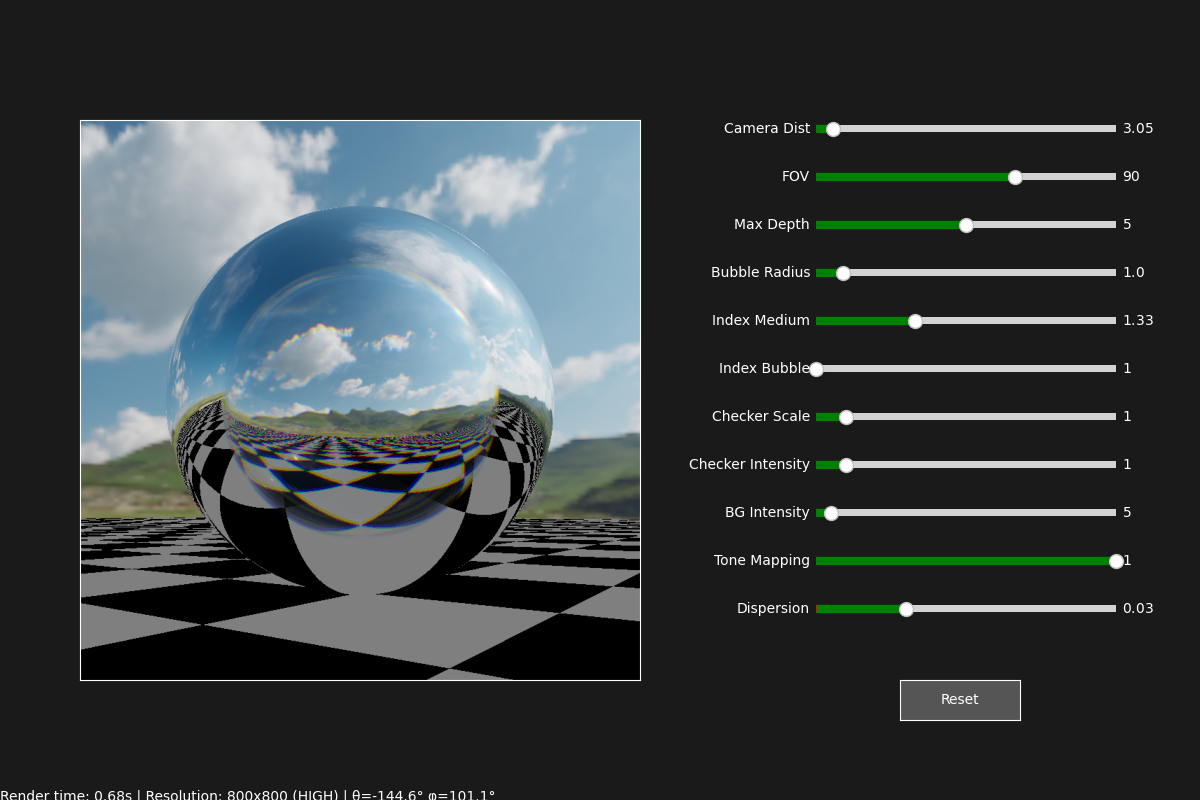
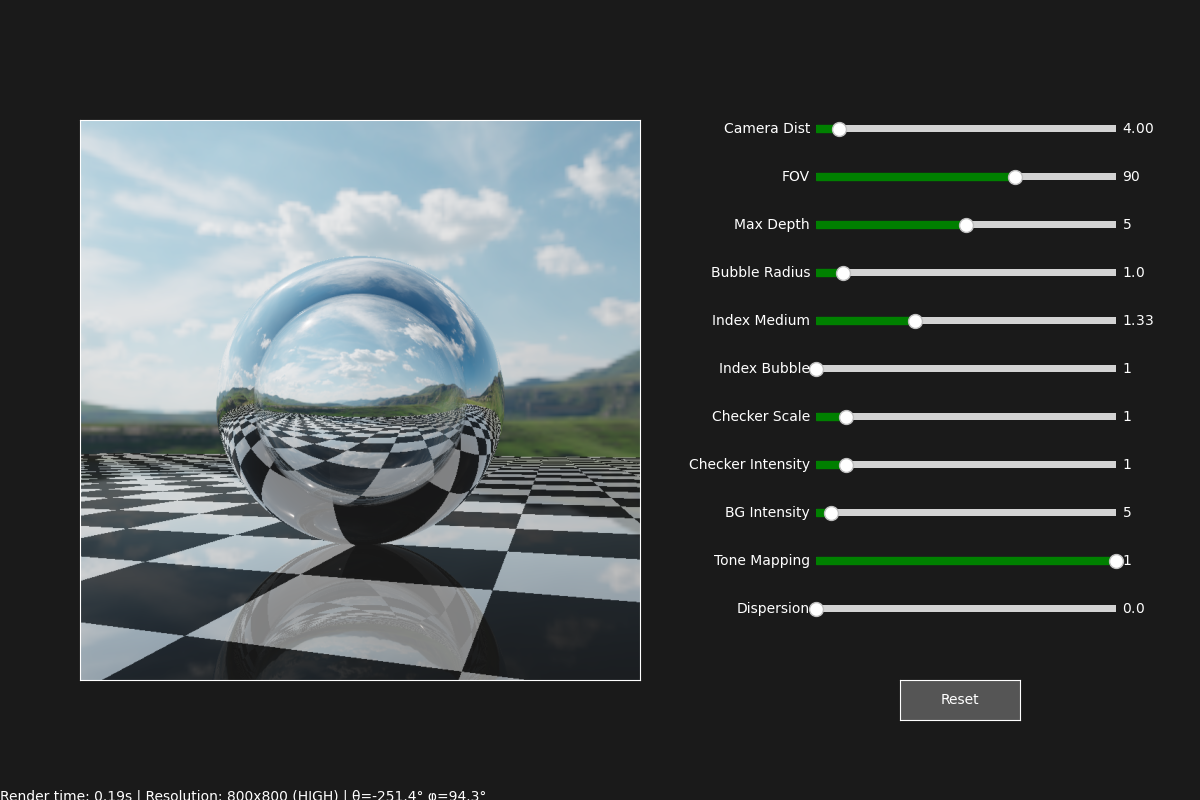
Add fresnel reflection to floor

diff --git a/3d-raytracer.py b/3d-raytracer.py
@@ -1,5 +1,6 @@
+import math
 import numpy as np
-from numba import njit, prange
+from numba import njit, prange, njit, float64
 import matplotlib.pyplot as plt
 from matplotlib.widgets import Slider, Button
 import time
@@ -102,7 +103,7 @@ def sample_equirectangular(direction, pano_array, width, height):
 
 
 @njit(cache=True, fastmath=True, inline='always')
-def checker(x, y, scale):
+def checker(x, y, scale, c0=0, c1=1):
     """2D square checkerboard pattern"""
     if scale<=0:
         return 1.0
@@ -110,13 +111,53 @@ def checker(x, y, scale):
     checkery = int(y / scale) % 2
     if x < 0: checkerx = 1 - checkerx
     if y < 0: checkery = 1 - checkery
-    return 0.0 if checkerx == checkery else 1.0
+    return c0 if checkerx == checkery else c1
 
 
 @njit(cache=True, fastmath=True, inline='always')
 def reflection(vector, normal):
     """Reflection about normal"""
     return vector - 2.0 * np.dot(vector, normal) * normal
+
+
+@njit(cache=True, fastmath=True, inline='always')
+def lambertian_reflection(vector, normal, roughness=0.1):
+    """
+    Scatters a vector based on a roughness parameter.
+    roughness = 0.0 -> Fully reflective (Specular)
+    roughness = 1.0 -> Fully scattered (Lambertian)
+    """
+    # 1. Calculate the perfect reflection vector
+    # (Note: Assumes incoming 'vector' points toward the surface)
+    reflect_dir = vector - 2.0 * np.dot(vector, normal) * normal
+
+    # 2. Generate a random point on a unit sphere (Lambertian target)
+    theta = 2.0 * np.pi * np.random.random()
+    phi = np.arccos(2.0 * np.random.random() - 1.0)
+    sin_phi = np.sin(phi)
+
+    random_on_sphere = np.array([
+        sin_phi * np.cos(theta),
+        sin_phi * np.sin(theta),
+        np.cos(phi)
+    ])
+
+    # 3. Choose the target based on roughness
+    # If roughness is 0, we use pure reflection.
+    # If roughness is 1, we offset the normal (pure Lambertian).
+    if roughness > 0.0:
+        # Interpolate the base direction between pure reflection and the normal
+        base_dir = (1.0 - roughness) * reflect_dir + roughness * normal
+        scatter_direction = base_dir + roughness * random_on_sphere
+    else:
+        scatter_direction = reflect_dir
+
+    # 4. Catch degenerate cases where the vector sums to zero
+    if np.dot(scatter_direction, scatter_direction) < 1e-16:
+        return normal
+
+    # 5. Normalize and return
+    return scatter_direction / np.linalg.norm(scatter_direction)
 
 
 @njit(cache=True, fastmath=True, inline='always')
@@ -137,22 +178,32 @@ def refraction(vector, normal, n1, n2):
 
 @njit(cache=True, fastmath=True, inline='always')
 def schlick_fresnel(cos_theta_i, n1, n2):
-    """Schlick approximation to Fresnel reflection and transmission"""
-    if cos_theta_i < 0.0:
-        cos_theta_i = 0.0
-    elif cos_theta_i > 1.0:
-        cos_theta_i = 1.0
+    """
+    Schlick approximation to Fresnel reflection and transmission.
+    """
+    # Clamp cosine to avoid floating-point errors
+    cos_i = max(0.0, min(1.0, cos_theta_i))
 
-    sin_theta_i = np.sqrt(1.0 - cos_theta_i * cos_theta_i)
-    sin_theta_t = (n1 / n2) * sin_theta_i
-
-    if sin_theta_t >= 1.0:
-        return 1.0
-
-    cos_theta_t = np.sqrt(1.0 - sin_theta_t * sin_theta_t)
+    # Compute base reflectance at normal incidence (R0)
     r0 = ((n1 - n2) / (n1 + n2)) ** 2
 
-    cos_theta = cos_theta_t if n1 > n2 else cos_theta_i
+    # Internal Reflection
+    if n1 > n2:
+        sin_theta_i = np.sqrt(1.0 - cos_i * cos_i)
+        sin_theta_t = (n1 / n2) * sin_theta_i
+
+        # Total Internal Reflection (TIR)
+        if sin_theta_t >= 1.0:
+            return 1.0
+
+        # Schlick cosine approximation
+        cos_t = np.sqrt(1.0 - sin_theta_t * sin_theta_t)
+        cos_theta = max(0.0, min(1.0, cos_t))
+    else:
+        # Rare -> Dense medium transition (Standard External Reflection)
+        cos_theta = cos_i
+
+    # Schlick power formula
     return r0 + (1.0 - r0) * ((1.0 - cos_theta) ** 5)
 
 
@@ -245,7 +296,7 @@ def trace_rays(origin, direction, intensity, max_depth, n1, n2, color,
         if depth > max_depth:
             continue
 
-        # sphere intersection
+        # Sphere intersection
         (sphere_hit_point, has_sphere, is_inside, is_directed_outward,
          sphere_normal, ni, nt) = ray_sphere_intersection(
             ray_origin, ray_direction,
@@ -253,7 +304,7 @@ def trace_rays(origin, direction, intensity, max_depth, n1, n2, color,
             n1, n2
         )
 
-        # plane intersection
+        # Plane intersection
         plane_hit_point, has_plane = ray_plane_intersection(
             ray_origin, ray_direction,
             background_center, background_normal
@@ -261,7 +312,6 @@ def trace_rays(origin, direction, intensity, max_depth, n1, n2, color,
 
         # distances along ray (squared)
         sphere_dist2 = 1e30
-        plane_dist2 = 1e30
 
         if has_sphere:
             dx = sphere_hit_point[0] - ray_origin[0]
@@ -275,13 +325,29 @@ def trace_rays(origin, direction, intensity, max_depth, n1, n2, color,
             dzp = plane_hit_point[2] - ray_origin[2]
             plane_dist2 = dxp*dxp + dyp*dyp + dzp*dzp
 
-        # If plane is closer, shade plane
-        if has_plane and (not has_sphere or plane_dist2 < sphere_dist2):
-            if checker_intensity > 0.0:
-                if -25.4 < plane_hit_point[0] < 25.4 and -25.4 < plane_hit_point[2] < 25.4:
-                    pattern = checker(plane_hit_point[0], plane_hit_point[2], checker_scale)
-                    result_color += ray_intensity * pattern * checker_intensity * color
-                    continue
+            # If plane is closer, shade plane
+            if has_plane and (not has_sphere or plane_dist2 < sphere_dist2):
+                if checker_intensity > 0.0:
+                    if -25.4 < plane_hit_point[0] < 25.4 and -25.4 < plane_hit_point[2] < 25.4:
+                        pattern = checker(plane_hit_point[0], plane_hit_point[2], checker_scale, c0=0.1, c1=1.0)
+                        result_color += ray_intensity * pattern * checker_intensity * color
+
+                        # Calculate angle relative to the surface normal
+                        cos_theta = -np.dot(ray_direction, background_normal)
+
+                        # Calculate reflection intensity from Schlick approximation
+                        fresnel_reflectance = schlick_fresnel(cos_theta, 1.0, 1.5)
+
+                        # Propagate reflection
+                        if fresnel_reflectance > 0.0 and stack_size < max_stack - 1:
+                            v_refl = reflection(ray_direction, background_normal)
+                            origins[stack_size] = plane_hit_point + background_normal * 1e-4
+                            directions[stack_size] = v_refl
+                            intensities[stack_size] = ray_intensity * max(pattern, 0.1) * fresnel_reflectance
+                            depths[stack_size] = depth + 1
+                            stack_size += 1
+
+                        continue
 
         # If sphere is closer, shade sphere
         if has_sphere and not (is_inside and is_directed_outward):
@@ -295,7 +361,7 @@ def trace_rays(origin, direction, intensity, max_depth, n1, n2, color,
             v_refr, has_refr = refraction(ray_direction, sphere_normal, ni, nt)
             v_refl = reflection(ray_direction, sphere_normal)
 
-            # refraction path
+            # Propagate refraction
             if has_refr and stack_size < max_stack - 1:
                 origins[stack_size] = sphere_hit_point
                 directions[stack_size] = v_refr
@@ -303,7 +369,7 @@ def trace_rays(origin, direction, intensity, max_depth, n1, n2, color,
                 depths[stack_size] = depth + 1
                 stack_size += 1
 
-            # reflection path
+            # Propagate reflection
             if stack_size < max_stack - 1:
                 origins[stack_size] = sphere_hit_point
                 directions[stack_size] = v_refl

diff --git a/README.md b/README.md
@@ -1,6 +1,6 @@
 # 3d-raytracer
 
-An interactive 3D raytracer for simulating light refraction, diffraction, and polarization through a water droplet or air bubble.
+An interactive 3D raytracer for simulating light refraction, diffraction, and dispersion through a water droplet or air bubble.
 
 ![air_bubble](images/air.png)
 